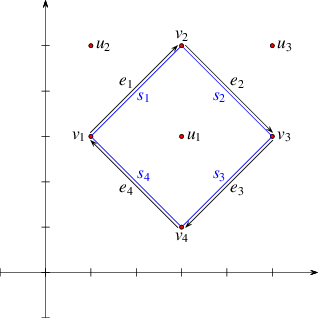
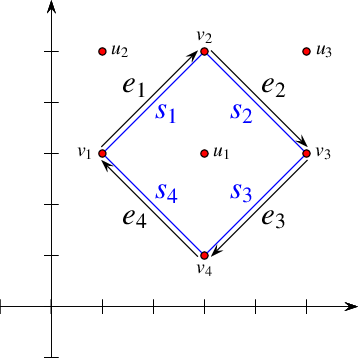
Updated

diff --git a/Arrangement_on_surface_2/doc/Arrangement_on_surface_2/fig_src/isolated_vertices.tex b/Arrangement_on_surface_2/doc/Arrangement_on_surface_2/fig_src/isolated_vertices.tex
@@ -2,27 +2,28 @@
 \input{header}
 \pagestyle{empty}
 \begin{document}
-\arrset{1.6}\LARGE%
-\pspicture[](-1,-1)(6,6)
-\arraxes(0,0)(-1,-1)(6,6)
-\arrv[180](1,3){1}
-\arrv[90](3,5){2}
-\arrv[0](5,3){3}
-\arrv[-90](3,1){4}
-\ncline[linewidth=0.5pt,linecolor=blue]{1}{2}
-\Bput[1pt]{\textcolor{blue}{\LARGE $s_1$}}
-\ncline[linewidth=0.5pt,offset=3pt]{->}{1}{2}\Aput[1pt]{\LARGE $e_1$}
-\ncline[linewidth=0.5pt,linecolor=blue]{2}{3}
-\Bput[1pt]{\textcolor{blue}{\LARGE $s_2$}}
-\ncline[linewidth=0.5pt,offset=3pt]{->}{2}{3}\Aput[1pt]{\LARGE $e_2$}
-\ncline[linewidth=0.5pt,linecolor=blue]{3}{4}
-\Bput[1pt]{\textcolor{blue}{\LARGE $s_3$}}
-\ncline[linewidth=0.5pt,offset=3pt]{->}{3}{4}\Aput[1pt]{\LARGE $e_3$}
-\ncline[linewidth=0.5pt,linecolor=blue]{4}{1}
-\Bput[1pt]{\textcolor{blue}{\LARGE $s_4$}}
-\ncline[linewidth=0.5pt,offset=3pt]{->}{4}{1}\Aput[1pt]{\LARGE $e_4$}
-\arru[0](3,3){1}
-\arru[0](1,5){2}
-\arru[0](5,5){3}
-\endpspicture
+\psscalebox{1.8}{\arrset{1}%
+  \pspicture[](-1,-1)(6,6)
+  \arraxes(0,0)(-1,-1)(6,6)
+  \arrv[180](1,3){1}
+  \arrv[90](3,5){2}
+  \arrv[0](5,3){3}
+  \arrv[-90](3,1){4}
+  \ncline[linewidth=0.5pt,linecolor=blue]{1}{2}
+  \Bput[1pt]{\textcolor{blue}{\LARGE $s_1$}}
+  \ncline[linewidth=0.5pt,offset=3pt]{->}{1}{2}\Aput[1pt]{\LARGE $e_1$}
+  \ncline[linewidth=0.5pt,linecolor=blue]{2}{3}
+  \Bput[1pt]{\textcolor{blue}{\LARGE $s_2$}}
+  \ncline[linewidth=0.5pt,offset=3pt]{->}{2}{3}\Aput[1pt]{\LARGE $e_2$}
+  \ncline[linewidth=0.5pt,linecolor=blue]{3}{4}
+  \Bput[1pt]{\textcolor{blue}{\LARGE $s_3$}}
+  \ncline[linewidth=0.5pt,offset=3pt]{->}{3}{4}\Aput[1pt]{\LARGE $e_3$}
+  \ncline[linewidth=0.5pt,linecolor=blue]{4}{1}
+  \Bput[1pt]{\textcolor{blue}{\LARGE $s_4$}}
+  \ncline[linewidth=0.5pt,offset=3pt]{->}{4}{1}\Aput[1pt]{\LARGE $e_4$}
+  \arru[0](3,3){1}
+  \arru[0](1,5){2}
+  \arru[0](5,5){3}
+  \endpspicture
+}
 \end{document}

diff --git a/Arrangement_on_surface_2/doc/Arrangement_on_surface_2/fig_src/pred_around_vertex.tex b/Arrangement_on_surface_2/doc/Arrangement_on_surface_2/fig_src/pred_around_vertex.tex
@@ -2,7 +2,7 @@
 \input{header}
 \pagestyle{empty}
 \begin{document}
-\psscalebox{1}{\arrset{0.5}%
+\psscalebox{1.8}{\arrset{0.5}%
   \pspicture[](-1.1,-1.6)(2,1.6)
   \arrMainVertex(0,0){v}
   \uput{9pt}[170]{0}(0,0){$v$}
@@ -19,7 +19,7 @@
   \ncline[linewidth=0.5pt,offset=3pt]{->}{c}{v}\Aput[1pt]{$e_{\mathrm{pred}}$}
   \ncline[linewidth=0.5pt,linecolor=blue]{v}{d}
   \ncline[linewidth=0.5pt,offset=3pt]{->}{d}{v}
-  \ncline[linewidth=1pt,linecolor=red]{v}{x}
+  \ncline[linewidth=1pt,linecolor=red]{v}{x}%
   \endpspicture
 }
 \end{document}
